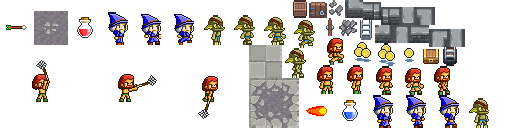
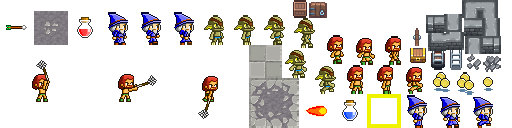
Added potions to hud

diff --git a/core/src/com/mygdx/game/WorldRenderer.java b/core/src/com/mygdx/game/WorldRenderer.java
@@ -10,6 +10,7 @@ import com.badlogic.gdx.utils.Disposable;
 import com.mygdx.game.objects.AbstractGameObject;
 import com.mygdx.game.objects.Ladder;
 import com.mygdx.game.utils.Constants;
+import com.mygdx.game.objects.Character;
 
 public class WorldRenderer implements Disposable
 {
@@ -79,6 +80,8 @@ public class WorldRenderer implements Disposable
 	{
 		float x = 35;
 		float y = 35;
+		
+		//Render health bar
 		float health = worldController.activeRoom.player.curHealth;
 		float totalHealth = worldController.activeRoom.player.totalHealth;
 		
@@ -108,6 +111,22 @@ public class WorldRenderer implements Disposable
 			Assets.instance.healthBar.healthBarBackground.draw(batch, x, y, 400, 30);
 	        Assets.instance.healthBar.healthBar.draw(batch, x+3, y+3, health / totalHealth * 394, 24);
 		}
+		
+		//Render potion inventory
+		int numHealthPotions = worldController.activeRoom.player.numHealthPotions;
+		int numDamagePotions = worldController.activeRoom.player.numDamagePotions;
+		
+		batch.draw(Assets.instance.potions.healthPotion, x + 5, y + 40, 25, 25, 50, 50, 1f, 1f, 180);
+		Assets.instance.fonts.defaultNormal.draw(batch, "X  " + numHealthPotions, x + 65, y + 55);
+		
+		batch.draw(Assets.instance.potions.damagePotion, x + 145, y + 40, 25, 25, 50, 50, 1f, 1f, 180);
+		Assets.instance.fonts.defaultNormal.draw(batch, "X  " + numDamagePotions, x + 205, y + 55);
+		
+		if(worldController.activePotion == Character.PotionType.HEALTH)
+			batch.draw(Assets.instance.potions.highlight, x + 5, y + 40, 25, 25, 50, 50, 1f, 1f, 180);
+		else if(worldController.activePotion == Character.PotionType.DAMAGE)
+			batch.draw(Assets.instance.potions.highlight, x + 145, y + 40, 25, 25, 50, 50, 1f, 1f, 180);
+			
 	}
 
 	private void renderText()

diff --git a/core/src/com/mygdx/game/WorldController.java b/core/src/com/mygdx/game/WorldController.java
@@ -43,7 +43,7 @@ public class WorldController extends InputAdapter implements ContactListener
 	private Array<String> randomizedRooms;
 	private Array<Body> bodiesToBeRemoved;
 	private int score;
-	private Character.PotionType activePotion;
+	public Character.PotionType activePotion;
 	
 	//increases with each deeper level of the dungeon
 	public int goldModifier;
@@ -192,7 +192,7 @@ public class WorldController extends InputAdapter implements ContactListener
 		{
 			if(touchedObject != null)
 			{
-				touchedObject.activate();
+				touchedObject.tryActivation();
 			}
 		}
 		
@@ -318,14 +318,14 @@ public class WorldController extends InputAdapter implements ContactListener
 		if(contact.getFixtureA().getBody().getUserData() == activeRoom.player && isCollectedObjectB && contact.getFixtureB().isSensor()) //TODO needs refactoring
 		{
 			touchedObject = (AbstractGameObject) contact.getFixtureB().getBody().getUserData();
-			touchedObject.activate();
+			touchedObject.tryActivation();
 			touchedObject = null;
 			
 		}
 		else if(contact.getFixtureB().getBody().getUserData() == activeRoom.player && isCollectedObjectA && contact.getFixtureB().isSensor())
 		{
 			touchedObject = (AbstractGameObject) contact.getFixtureB().getBody().getUserData();
-			touchedObject.activate();
+			touchedObject.tryActivation();
 			touchedObject = null;
 			
 		}

diff --git a/core/src/com/mygdx/game/objects/AbstractGameObject.java b/core/src/com/mygdx/game/objects/AbstractGameObject.java
@@ -16,6 +16,7 @@ public abstract class AbstractGameObject
 	public Body body;
 	protected TextureRegion reg;
 	public boolean mirrored;
+	private boolean activated;
 	
 	/**
 	 * Provides a default box2d body for the object if a differencet constructor is not used.
@@ -38,10 +39,19 @@ public abstract class AbstractGameObject
 		box.dispose();
 		
 		this.reg = img;
+		activated = false;
 	}
 	
 	public void update (float deltaTime) {}
 	
+	public void tryActivation()
+	{
+		if(!activated)
+		{
+			activated = true;
+			activate();
+		}
+	}
 	public void activate() {}
 	
 	/**

diff --git a/core/src/com/mygdx/game/Assets.java b/core/src/com/mygdx/game/Assets.java
@@ -432,11 +432,13 @@ public static final String TAG = Assets.class.getName();
 	{
 		public final AtlasRegion healthPotion;
 		public final AtlasRegion damagePotion;
+		public final AtlasRegion highlight;
 		
 		public assetPotions(TextureAtlas atlas)
 		{
 			healthPotion = atlas.findRegion("potionHealth");
 			damagePotion = atlas.findRegion("potionDamage");
+			highlight = atlas.findRegion("potionHighlight");
 		}
 	}
 	
